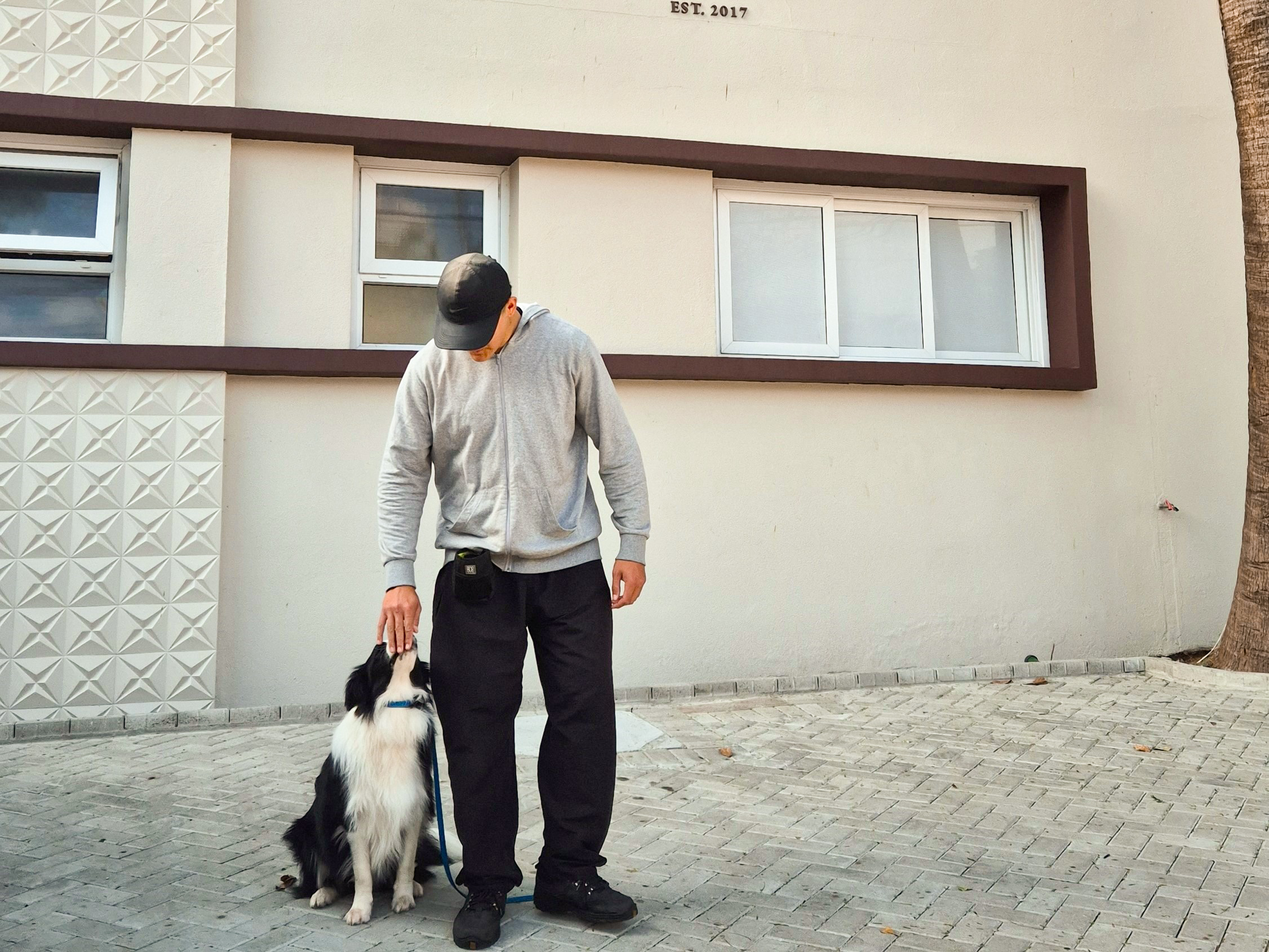
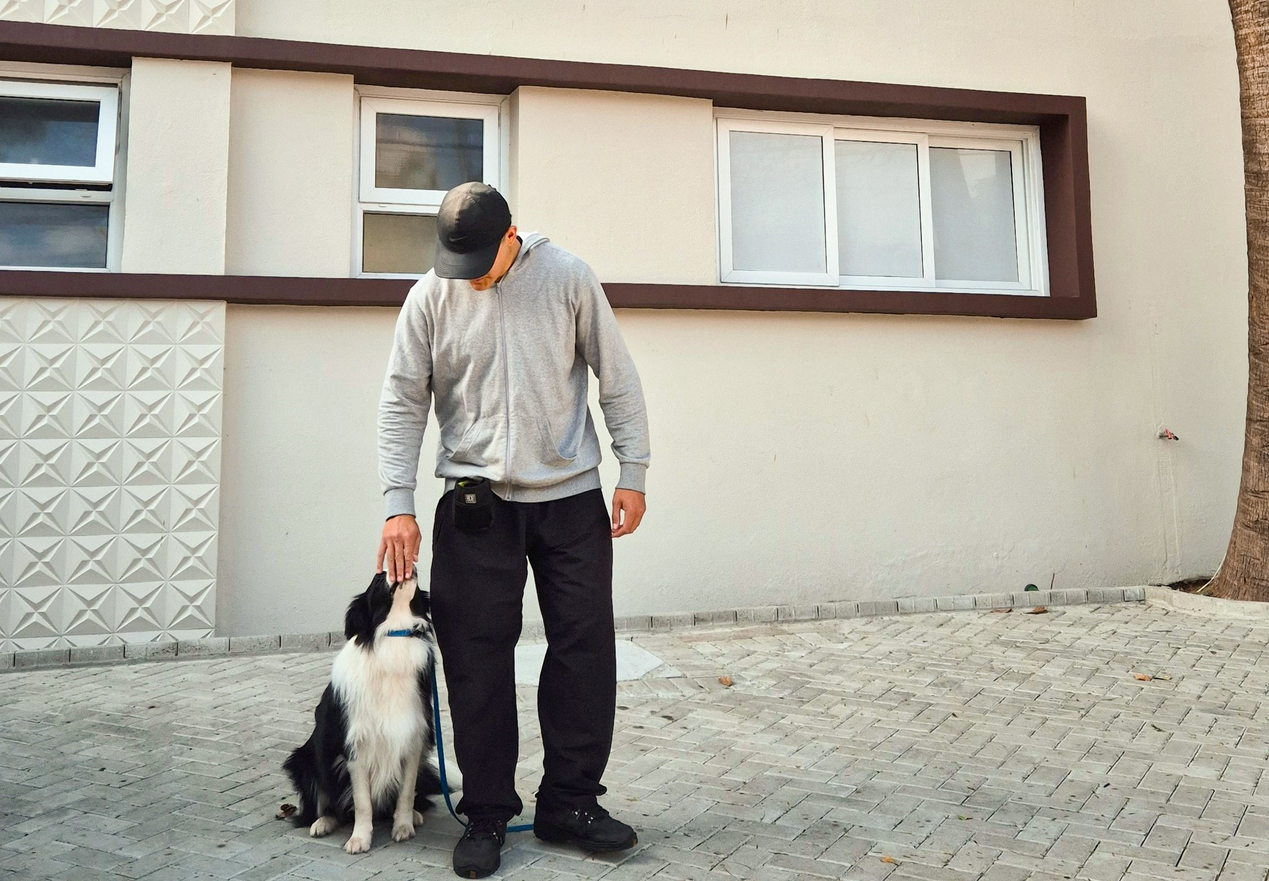
imagens
atualizadinhas

diff --git a/public/css/estilo.css b/public/css/estilo.css
@@ -179,6 +179,17 @@ h1 {
   padding: 20px;
 }
 
+.animate-on-scroll {
+    opacity: 0;
+    transform: translateY(40px);
+    transition: opacity 1.8s ease, transform 1.2s ease;
+}
+
+.animate-on-scroll.show {
+    opacity: 1;
+    transform: translateY(0);
+}
+
 .subsecao-2-texto {
   padding: 20px 45px 20px 100px;
   text-align: justify;
@@ -544,9 +555,9 @@ h1 {
 }
 
 .secao1-ht {
-  background-image: url("../img/pexels-chevanon-1108099.jpg");
+  background-image: url("../img/fotos-oficiais/ht-capa.png");
   background-repeat: no-repeat;
-  background-position: center top;
+  background-position: center center;
   background-size: cover;
   background-attachment: fixed;
   padding: 100px 20px;
@@ -690,12 +701,12 @@ h1 {
 }
 
 .secao1-ad {
-  background-image: url("../img/pexels-chevanon-1108099.jpg");
+  background-image: url("../img/fotos-oficiais/ad-pipa-capa.png");
   background-repeat: no-repeat;
-  background-position: center top;
+  background-position: center center;
   background-size: cover;
   background-attachment: fixed;
-  padding: 100px 20px;
+  padding: 130px 20px;
   color: white;
   text-align: center;
 }

diff --git a/public/js/home.js b/public/js/home.js
@@ -1,3 +1,16 @@
+const elements = document.querySelectorAll('.animate-on-scroll');
+
+    const observer = new IntersectionObserver(entries => {
+        entries.forEach(entry => {
+            if (entry.isIntersecting) {
+                entry.target.classList.add('show');
+            }
+        });
+    });
+
+    elements.forEach(el => observer.observe(el));
+
+
 document.addEventListener('DOMContentLoaded', () => {
   const inner = document.querySelector('#depoimentosCarousel .carousel-inner');
   
